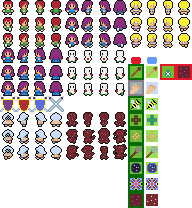
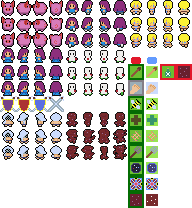
Added pig

Changed region(s): [[0.0, 0.0, 0.3438, 0.2308]]

diff --git a/src/data/UnitData.ts b/src/data/UnitData.ts
@@ -50,14 +50,14 @@ export const snowman: UnitData = {
   description: "Snow !",
 };
 
-export const dude: UnitData = {
+export const pig: UnitData = {
   HP: 100,
   MP: 6,
   AP: 6,
   spells: "Deadly javelin",
   frame: 0,
-  type: "Dude",
-  description: "Just some dude.",
+  type: "Pig",
+  description: "Just some pig.",
 };
 
 export const princess: UnitData = {
@@ -70,7 +70,7 @@ export const princess: UnitData = {
   description: "A typical princess.",
 };
 
-const availableUnits = [amazon, renegade, stranger, snowman, dude, princess];
+const availableUnits = [amazon, renegade, stranger, snowman, pig, princess];
 
 export const findUnitDataByType = (type: string) => {
   return availableUnits.find((unitData) => unitData.type === type);

diff --git a/src/scenes/MapScene.ts b/src/scenes/MapScene.ts
@@ -47,7 +47,7 @@ export class MapScene extends Phaser.Scene {
       .on("pointerup", () => {
         this.scene.start("BattleScene", {
           playerType: this.currentCharacterChoice,
-          enemyType: "Dude",
+          enemyType: "Pig",
         });
       });
   }

diff --git a/src/scenes/ChooseCardScene.ts b/src/scenes/ChooseCardScene.ts
@@ -77,7 +77,7 @@ export class ChooseCardScene extends Phaser.Scene {
           this.scene.start("MapScene");
         } else {
           this.scene.start("BattleScene", {
-            enemyType: "Dude",
+            enemyType: "Pig",
           });
         }
       });
